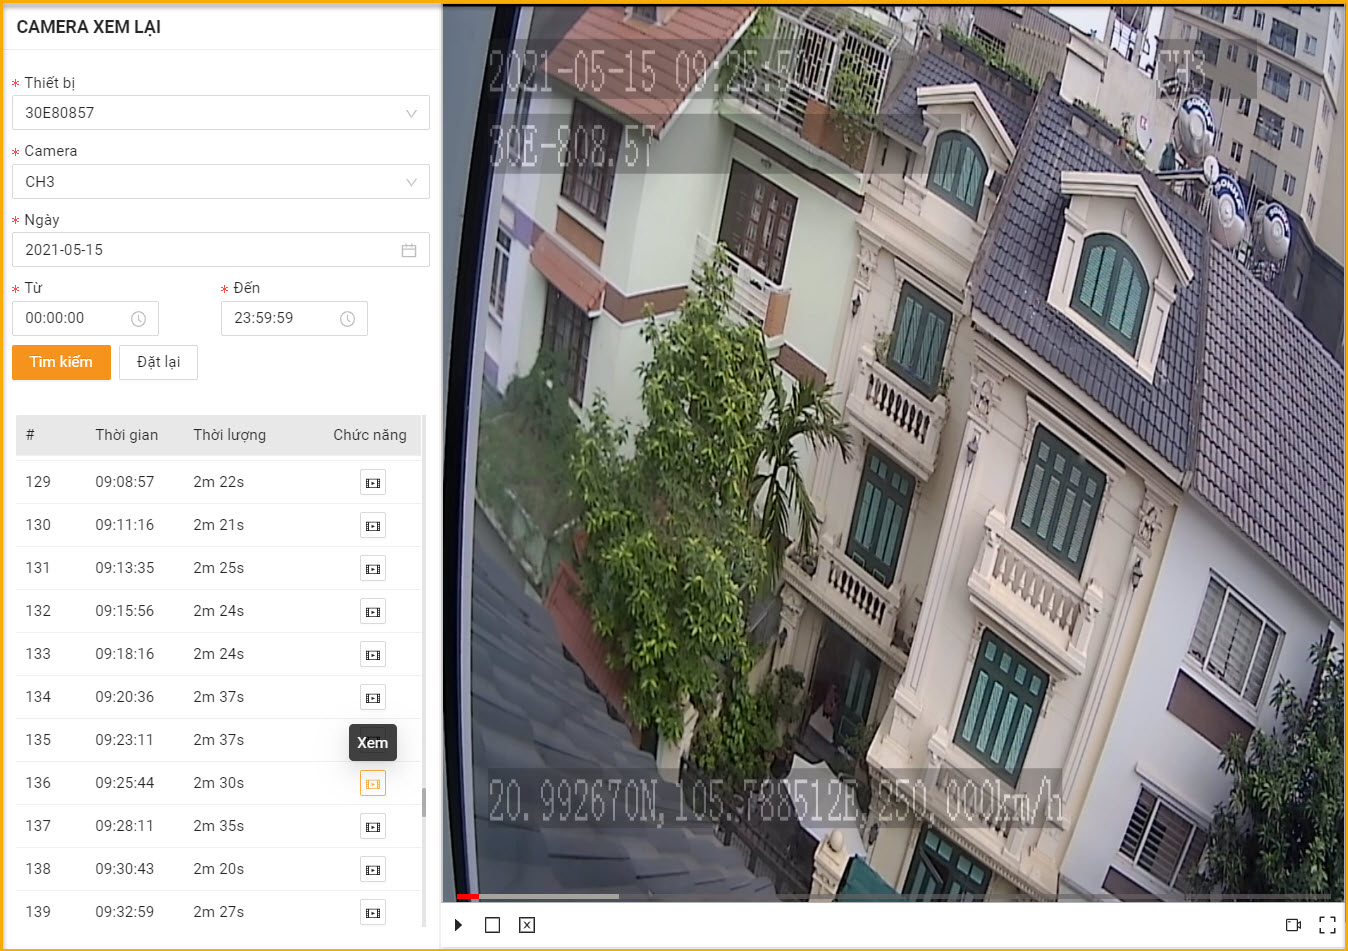
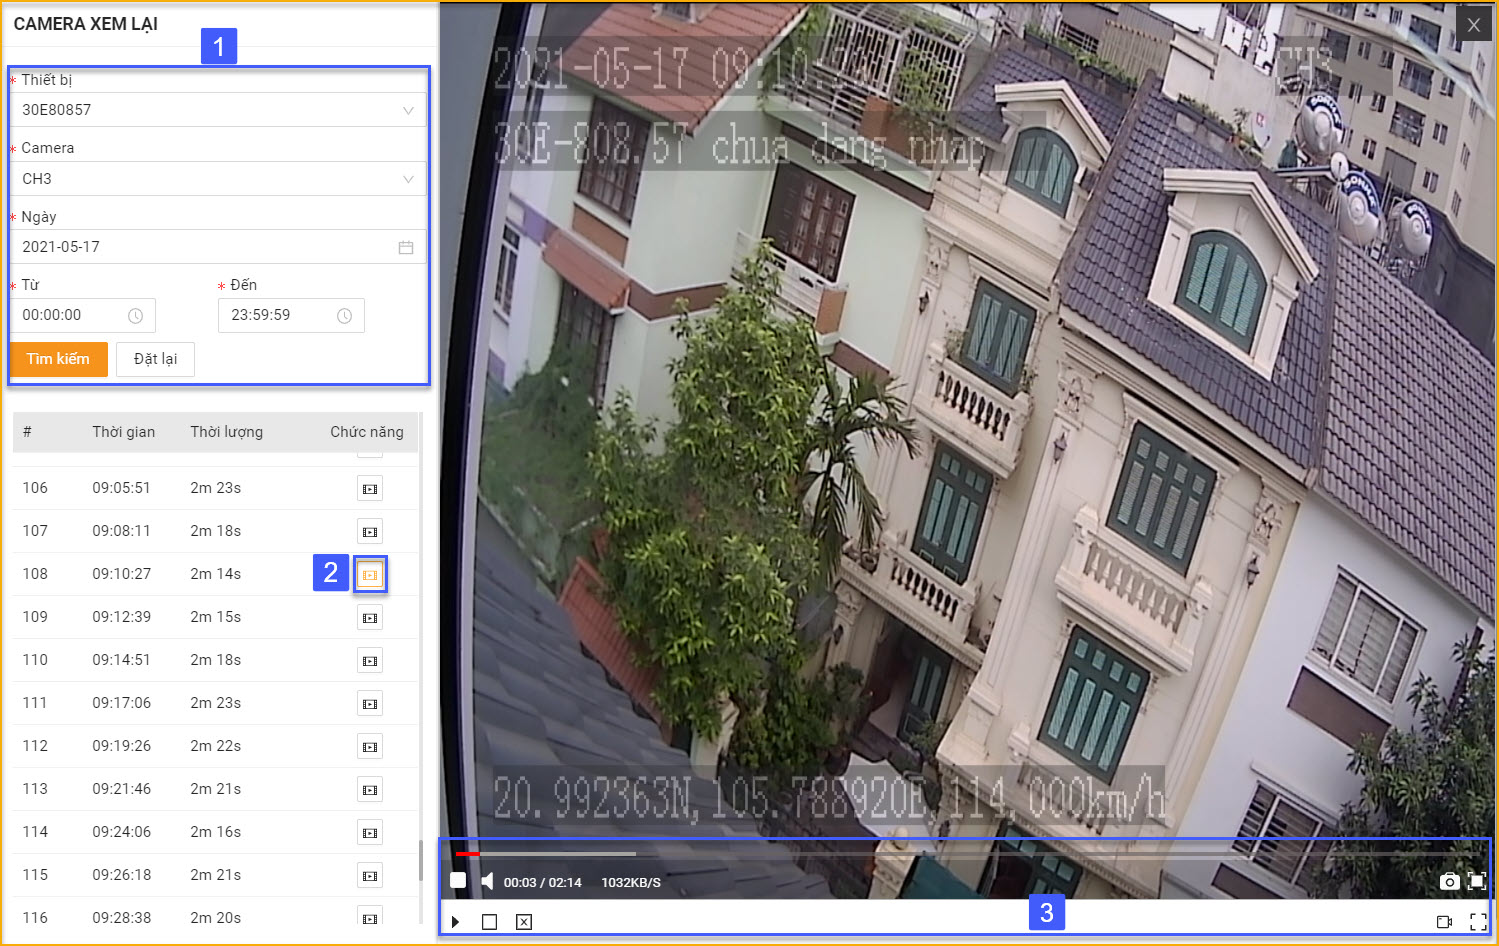
add history image

diff --git a/modules/web-interface/camera/playback/README_vi.md b/modules/web-interface/camera/playback/README_vi.md
@@ -6,10 +6,10 @@ Màn hình hiển thị như hình dưới đây :
 
 <span style="display:block;text-align:left">![Manage device ](/docs/assets/images/web-interface/livestream/playback.png)
 
-### Tìm kiếm
+### 1. Tìm kiếm
 
 * Tìm kiếm theo các tiêu chí sau : 
-  - **Thiết bị** : Chọn biểm số của thiết bị đó.
+  - **Thiết bị** : Chọn biển số của thiết bị đó.
   - **Camera** : Chọn kênh camera muốn xem cụ thể.
   - **Ngày** : Chọn ngày muốn xem lại video camera.
   - **Từ** ... **Đến** : Chọn thời gian trong khoảng nào để xem lại video.
@@ -18,7 +18,7 @@ Màn hình hiển thị như hình dưới đây :
     
     Hoặc **Đặt lại** để xóa từ vừa nhập, đặt về trạng thái mặc định ban đầu.
 
-### Hiển thị
+### 2. Hiển thị
 
 * Sau khi hiển thị kết quả tìm kiếm , muốn xem lại video thời gian nào thì <br> click vào icon <span class="icon-left svg-filter-info">![Ok](/docs/assets/images/web-interface/icon/SVG/icons8-video.svg) để xem lại.
 
@@ -26,25 +26,27 @@ Màn hình hiển thị như hình dưới đây :
 
 <span style="display:block;text-align:left">![Manage device ](/docs/assets/images/web-interface/livestream/search-playback.jpg)
 
-<span class="icon-left ">![Ok](/docs/assets/images/web-interface/icon/SVG/icons8-square.svg) Dừng xe 1 kênh camera nào đó nếu bạn đang phát.
+### 3. Bảng điều khiển
+
+<span class="icon-left ">![Ok](/docs/assets/images/web-interface/icon/SVG/icons8-square.svg) Dừng xem kênh camera nếu bạn đang phát.
 
 <span class="icon-left svg-filter-info">![Ok](/docs/assets/images/web-interface/icon/SVG/icons8-sound-speaker.svg) Tăng/giảm âm lượng của kênh đó.
 
 <span class="icon-left svg-filter-info">![Ok](/docs/assets/images/web-interface/icon/SVG/icons8-camera.svg) Chụp ảnh màn hình và tải về.
 
-<span class="icon-left svg-filter-info">![Ok](/docs/assets/images/web-interface/icon/SVG/full-screen-icon-11.png) Chạm vào 1 kênh camera để phóng to màn hình kênh đó. Click lần nữa để thu nhỏ kênh đó.
+<span class="icon-left svg-filter-info">![Ok](/docs/assets/images/web-interface/icon/SVG/full-screen-icon-11.png) Chạm vào kênh camera để phóng to màn hình kênh đó. Click lần nữa để thu nhỏ kênh đó.
 
-<span class="icon-left svg-filter-info">![Ok](/docs/assets/images/web-interface/icon/SVG/icons8-play.svg) Tiếp tục xem tất cả camera nếu bạn đang dừng.
+<span class="icon-left svg-filter-info">![Ok](/docs/assets/images/web-interface/icon/SVG/icons8-play.svg) Tiếp tục xem video nếu bạn đang dừng.
 
-<span class="icon-left svg-filter-info">![Ok](/docs/assets/images/web-interface/icon/SVG/icons8-full-image.svg) Tạm dừng tất cả video nếu bạn đang phát.
+<span class="icon-left svg-filter-info">![Ok](/docs/assets/images/web-interface/icon/SVG/icons8-full-image.svg) Tạm dừng video nếu bạn đang phát.
 
-<span class="icon-left svg-filter-info">![Ok](/docs/assets/images/web-interface/icon/SVG/icons8-close-window.svg) Đóng tất cả các kênh camera. Muốn xem tiếp phải vào **tên kênh > Xem tất cả**.
+<span class="icon-left svg-filter-info">![Ok](/docs/assets/images/web-interface/icon/SVG/icons8-close-window.svg) Đóng kênh camera. Muốn xem tiếp phải vào icon <span class="icon-left svg-filter-info">![Ok](/docs/assets/images/web-interface/icon/SVG/icons8-video.svg) để xem lại.
 
 <span class="icon-left svg-filter-info">![Ok](/docs/assets/images/web-interface/icon/SVG/icons8-video-call.svg) Định dạng kênh camera. Tùy chọn loại định dạng muốn hiển thị.
 
 <span class="icon-left svg-filter-info">![Ok](/docs/assets/images/web-interface/icon/SVG/layout.svg) Kiểu bố trí các kênh camera. Tùy chọn kiểu bố trí muốn hiển thị.
 
-<span class="icon-left svg-filter-info">![Ok](/docs/assets/images/web-interface/icon/SVG/icons8-full-screen.svg) Toàn màn hình tất cả các kênh.
+<span class="icon-left svg-filter-info">![Ok](/docs/assets/images/web-interface/icon/SVG/icons8-full-screen.svg) Toàn màn hình kênh đang xem.
 
 <span class="icon-left svg-filter-info">![Ok](/docs/assets/images/web-interface/icon/SVG/full-screen-exit.svg) Thu nhỏ màn hình các kênh camera về chế độ mặc định ban đầu.
 

diff --git a/modules/web-interface/camera/playback/README.md b/modules/web-interface/camera/playback/README.md
@@ -4,4 +4,52 @@
   
      The screen displays as shown below:
 
-     <span style="display:block;text-align:left">![Manage device ](/docs/assets/images/web-english/livestream/playback.png)
+     <span style="display:block;text-align:left">![Manage device ](/docs/assets/images/web-english/livestream/play-back.jpg)
+
+
+### 1. Search
+
+* Search by the following criteria:
+   - **Device** : Select number plate of the device.
+   - **Camera** : Select the camera channel you want to watch specifically.
+   - **Date** : Select the date you want to review the camera video.
+   - **From** ... **To** : Choose a time interval to watch the video again.
+
+     Press the **Search** button to display the results.
+    
+     Or **Reset** to delete the entered word, resetting it to the original default state.
+
+### 2. Display
+
+* After displaying the search results, if you want to watch the video again at any time, click on the icon <span class="icon-left svg-filter-info">![Ok](/docs/assets/images/web-interface/icon/SVG/icons8-video.svg) to review it.
+
+* The video will play back on the screen.
+
+<span style="display:block;text-align:left">![Manage device ](/docs/assets/images/web-english/livestream/search-playback.jpg)
+
+### 3. Control Panel
+
+<span class="icon-left ">![Ok](/docs/assets/images/web-interface/icon/SVG/icons8-square.svg) Stop watching the camera channel if you are playing.
+
+<span class="icon-left svg-filter-info">![Ok](/docs/assets/images/web-interface/icon/SVG/icons8-sound-speaker.svg) Increase / decrease the volume of that channel.
+
+<span class="icon-left svg-filter-info">![Ok](/docs/assets/images/web-interface/icon/SVG/icons8-camera.svg) Screen capture and download.
+
+<span class="icon-left svg-filter-info">![Ok](/docs/assets/images/web-interface/icon/SVG/full-screen-icon-11.png) Touch camera channel to enlarge the channel screen. Click again to minimize the channel.
+
+<span class="icon-left svg-filter-info">![Ok](/docs/assets/images/web-interface/icon/SVG/icons8-play.svg) Continue to see video if you are stopped.
+
+<span class="icon-left svg-filter-info">![Ok](/docs/assets/images/web-interface/icon/SVG/icons8-full-image.svg) Pause video if you are playing.
+
+<span class="icon-left svg-filter-info">![Ok](/docs/assets/images/web-interface/icon/SVG/icons8-close-window.svg) Close camera channels. If you want to continue watching, you have to click on the icon <span class="icon-left svg-filter-info">![Ok](/docs/assets/images/web-interface/icon/SVG/icons8-video.svg) to watch again.
+
+
+<span class="icon-left svg-filter-info">![Ok](/docs/assets/images/web-interface/icon/SVG/icons8-video-call.svg) Camera channel format. Choose the format you want to display.
+
+<span class="icon-left svg-filter-info">![Ok](/docs/assets/images/web-interface/icon/SVG/layout.svg) Layout of camera channels. The layout option you want to display.
+
+<span class="icon-left svg-filter-info">![Ok](/docs/assets/images/web-interface/icon/SVG/icons8-full-screen.svg) Full screen channel is watching.
+
+<span class="icon-left svg-filter-info">![Ok](/docs/assets/images/web-interface/icon/SVG/full-screen-exit.svg) Minimize the screen of camera channels to factory default.
+
+* Click on the timeline on that channel to fast forward or rewind the content in that video.

diff --git a/modules/web-interface/camera/livestream/README.md b/modules/web-interface/camera/livestream/README.md
@@ -11,9 +11,9 @@ After configuration is complete:
 
     <span style="display:block;text-align:left">![Manage device ](/docs/assets/images/web-english/livestream/livestream.png)
 
-### Dashboard
+### Control Panel
 
-<span class="icon-left ">![Ok](/docs/assets/images/web-interface/icon/SVG/icons8-square.svg) Stop a certain camera channel.
+<span class="icon-left ">![Ok](/docs/assets/images/web-interface/icon/SVG/icons8-square.svg) Stop watching a certain camera channel if you are playing.
 
 <span class="icon-left svg-filter-info">![Ok](/docs/assets/images/web-interface/icon/SVG/icons8-sound-speaker.svg) Increase / decrease the volume of that channel.
 
@@ -21,9 +21,9 @@ After configuration is complete:
 
 <span class="icon-left svg-filter-info">![Ok](/docs/assets/images/web-interface/icon/SVG/full-screen-icon-11.png) Touch 1 camera channel to enlarge the channel screen. Click again to minimize the channel.
 
-<span class="icon-left svg-filter-info">![Ok](/docs/assets/images/web-interface/icon/SVG/icons8-play.svg) Continue to view all cameras.
+<span class="icon-left svg-filter-info">![Ok](/docs/assets/images/web-interface/icon/SVG/icons8-play.svg) Continue to see all cameras if you are stopped.
 
-<span class="icon-left svg-filter-info">![Ok](/docs/assets/images/web-interface/icon/SVG/icons8-full-image.svg) Stop viewing all cameras.
+<span class="icon-left svg-filter-info">![Ok](/docs/assets/images/web-interface/icon/SVG/icons8-full-image.svg) Pause all videos if you are playing.
 
 <span class="icon-left svg-filter-info">![Ok](/docs/assets/images/web-interface/icon/SVG/icons8-close-window.svg) Close all camera channels. Want to see more right in **channel name > Play all**.
 

diff --git a/modules/web-interface/camera/history-image/README_vi.md b/modules/web-interface/camera/history-image/README_vi.md
@@ -1,0 +1,20 @@
+# Lịch sử ảnh
+
+Bạn vào **Quản lý > Camera > Lịch sử ảnh**.
+  Màn hình hiển thị như hình dưới đây :
+
+  <span style="display:block;text-align:left">![Manage device ](/docs/assets/images/web-interface/livestream/history-image-1.png)
+
+### Tìm kiếm
+
+<span style="display:block;text-align:left">![Manage device ](/docs/assets/images/web-interface/livestream/search-history-image.png)
+
+* Tìm kiếm theo các tiêu chí sau : 
+  - Thời gian : Chọn thời gian  từ...thời gian đến .
+  - Biển số: Chọn biển số có trong tài khoán đó ma bạn muốn xem.
+  - Camera : Chọn 1 hoặc tất cả các kênh camera cùng 1 lúc.
+
+  Nhấn nút **Tìm kiếm** để hiển thị kết quả.
+    
+  Hoặc **Đặt lại** để xóa từ vừa nhập, đặt về trạng thái mặc định ban đầu.
+

diff --git a/modules/web-interface/camera/livestream/README_vi.md b/modules/web-interface/camera/livestream/README_vi.md
@@ -12,9 +12,9 @@ Sau khi cấu hình xong :
 
 <span style="display:block;text-align:left">![Manage device ](/docs/assets/images/web-interface/livestream/livestream.png)
 
-### Bảng điều khiển
+### 3. Bảng điều khiển
 
-<span class="icon-left ">![Ok](/docs/assets/images/web-interface/icon/SVG/icons8-square.svg) Dừng xe 1 kênh camera nào đó nếu bạn đang phát.
+<span class="icon-left ">![Ok](/docs/assets/images/web-interface/icon/SVG/icons8-square.svg) Dừng xem 1 kênh camera nào đó nếu bạn đang phát.
 
 <span class="icon-left svg-filter-info">![Ok](/docs/assets/images/web-interface/icon/SVG/icons8-sound-speaker.svg) Tăng/giảm âm lượng của kênh đó.
 

diff --git a/docs/_sidebar_vi.md b/docs/_sidebar_vi.md
@@ -17,6 +17,7 @@
       - [Hướng dẫn cài đặt và sử dụng MDVR](vi/modules/web-interface/camera/instructions-for-installing-configuring/)
       - [Xem trực tiếp](vi/modules/web-interface/camera/livestream/)
       - [Xem lại](vi/modules/web-interface/camera/playback/)
+      - [Lịch sử ảnh](vi/modules/web-interface/camera/history-image/)
     - **Bản đồ**
       - [Bố cục ](vi/modules/web-interface/tracking/Interface-main/)
       - [Giám sát tổng quát   ](vi/modules/web-interface/tracking/general-device-monitoring/)

diff --git a/modules/web-interface/camera/history-image/README.md b/modules/web-interface/camera/history-image/README.md
@@ -1,0 +1,4 @@
+# Photo History
+
+You go to **Manage > Camera > Photo History**.
+  The screen displays as shown below:
